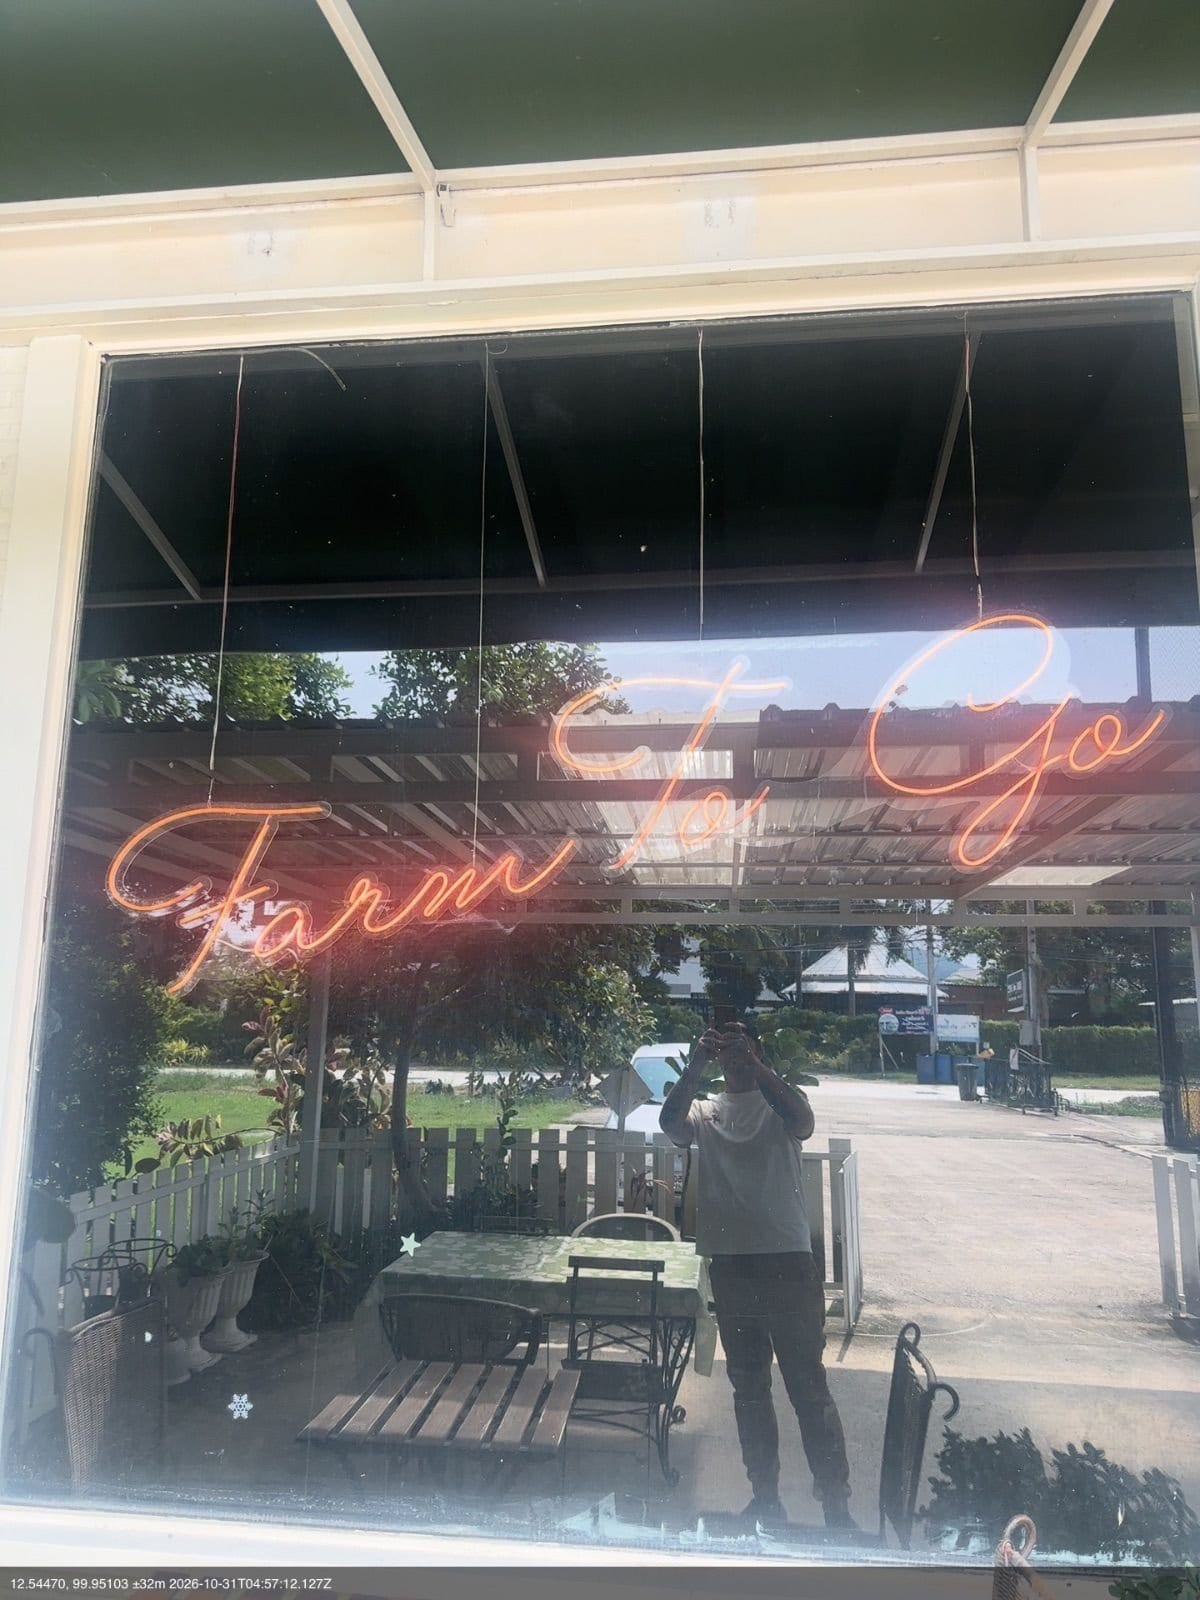
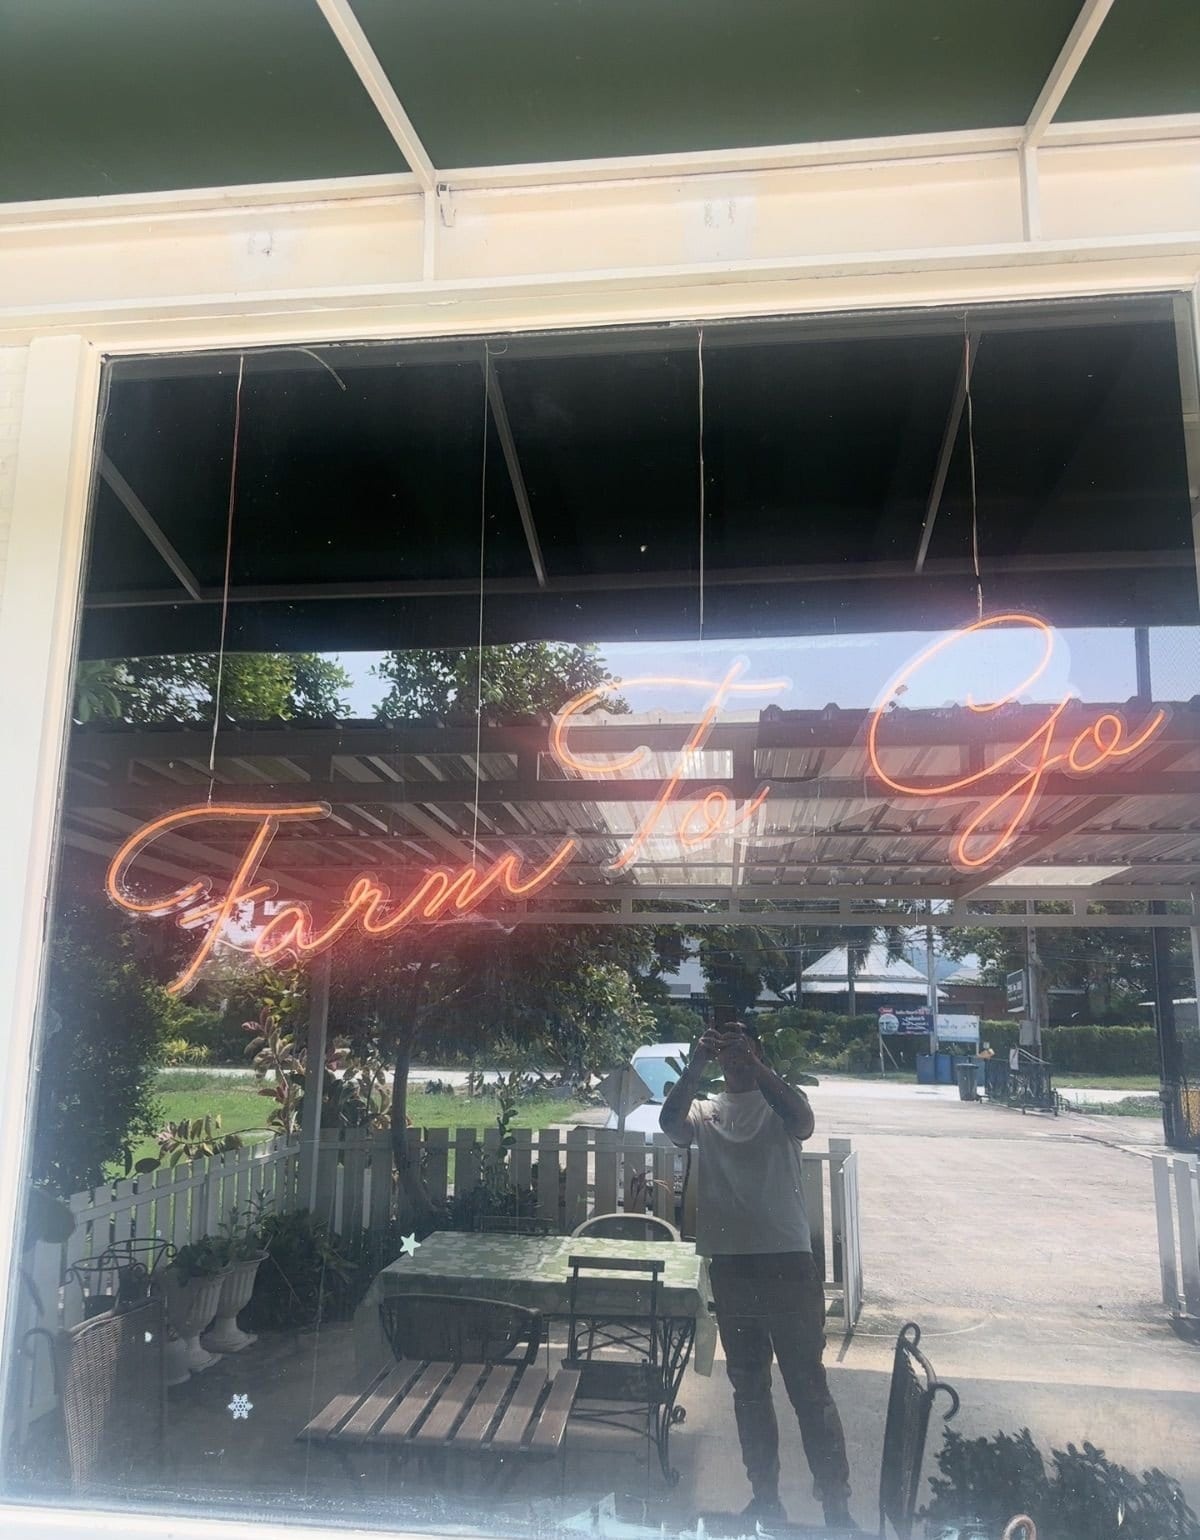
fix(judge): resolve the demo shop id and keep a blocked replace from failing
A judge save looks up the is_demo shop id, so the book link is the café slug. A replace the caller cannot make becomes an add, or a skip at 12 pages, and never removes a page they do not own. Café A starts from an empty Farm to Go book. Sample photos lose the burned-in stamp, and the no-camera upload sits below the sample pill.

diff --git a/app/api/book/pages/route.test.ts b/app/api/book/pages/route.test.ts
@@ -14,7 +14,8 @@ type Row = Record<string, unknown>;
 
 const { getUser, state, service } = vi.hoisted(() => {
   const state = {
-    shop: null as { id: string; category: string; name?: string; slug?: string; name_local?: string | null } | null,
+    shop: null as { id: string; category: string; name?: string; slug?: string; name_local?: string | null; is_demo?: boolean } | null,
+    demoAccount: false,
     book: null as Row | null,
     pages: [] as Row[],
     uploads: [] as { path: string; bytes: Buffer }[],
@@ -72,6 +73,9 @@ const { getUser, state, service } = vi.hoisted(() => {
     }
 
     finish() {
+      if (this.table === "demo_accounts") {
+        return { data: state.demoAccount ? [{ role: "explorer" }] : [], error: null };
+      }
       if (this.table === "shop_owners") {
         return {
           data: state.ownerIds.map((id) => ({ user_id: id, status: "verified" })),
@@ -296,6 +300,7 @@ describe("POST /api/book/pages", () => {
     state.rpcCalls = [];
     state.bookWrites = 0;
     state.ownerIds = [USER];
+    state.demoAccount = false;
     mode = "ok";
     vi.stubGlobal("fetch", installFetch());
   });
@@ -583,6 +588,47 @@ describe("POST /api/book/pages", () => {
     const addedBody = (await added.json()) as { summary?: string };
     expect(addedBody.summary).toContain("Added 1 menu item");
     expect(state.pages.filter((page) => page.kind === "menu" && page.status !== "removed").length).toBeGreaterThan(1);
+  });
+
+  it("a judge and a normal user add a page instead of replacing one they do not own", async () => {
+    const pageId = "dddddddd-dddd-4ddd-8ddd-dddddddddddd";
+    const liveBook = { status: "live", hours: {}, theme: {}, tagline: null, source_language: null, built_by_model: null };
+    state.shop = { id: SHOP, category: "street_food", slug: "mala-mafia", is_demo: true };
+    state.demoAccount = true;
+    state.ownerIds = ["99999999-9999-4999-8999-999999999999"];
+    state.pages = [{ id: pageId, kind: "storefront", status: "live", extracted: { section: "old" }, shop_id: SHOP }];
+    state.book = liveBook;
+    mode = "improve-replace";
+    const judge = await postSession([{ kind: "storefront" }], SHOP, "improve");
+    expect(judge.status).toBe(200);
+    expect(state.pages.find((page) => page.id === pageId)?.status).toBe("live");
+    expect(state.pages.filter((page) => page.kind === "storefront" && page.status !== "removed").length).toBeGreaterThan(1);
+
+    state.pages = [{ id: pageId, kind: "storefront", status: "live", extracted: { section: "old" }, shop_id: SHOP }];
+    state.book = liveBook;
+    state.shop = { id: SHOP, category: "street_food", is_demo: false };
+    state.demoAccount = false;
+    state.ownerIds = [];
+    state.uploads = [];
+    const joined = await postSession([{ kind: "storefront" }], SHOP, "improve");
+    expect(joined.status).toBe(200);
+    expect(state.pages.find((page) => page.id === pageId)?.status).toBe("live");
+
+    state.pages = [
+      { id: pageId, kind: "storefront", status: "live", extracted: { section: "old" }, shop_id: SHOP },
+      ...Array.from({ length: 11 }, (_, index) => ({
+        id: "eeeeeeee-eeee-4eee-8eee-" + String(index + 1).padStart(12, "0"),
+        kind: "menu",
+        status: "live",
+        extracted: { section: "old" },
+        shop_id: SHOP,
+      })),
+    ];
+    state.book = liveBook;
+    const full = await postSession([{ kind: "storefront" }], SHOP, "improve");
+    expect(full.status).toBe(200);
+    expect(state.pages.find((page) => page.id === pageId)?.status).toBe("live");
+    expect(state.pages.filter((page) => page.status !== "removed")).toHaveLength(12);
   });
 
   it("joining an existing shop with a live page succeeds", async () => {

diff --git a/components/camera/LiveCamera.tsx b/components/camera/LiveCamera.tsx
@@ -28,7 +28,7 @@ import { savedMaybe, waitForBook } from "@/lib/book/waitBook";
 import { SkeletonCards } from "@/components/ui/SkeletonCards";
 import { DEMO_ZONE_FALLBACK } from "@/lib/demo/zone";
 import { BuildProgress } from "@/components/book/BuildProgress";
-import { DEMO_CAFES, judgeSampleSave, readTour } from "@/lib/judge/script";
+import { DEMO_CAFES, demoShopTarget, judgeSampleSave, readTour } from "@/lib/judge/script";
 import { stageSnapFile } from "@/lib/snap/handoff";
 import { listenNavShutter, navShutterAction } from "@/lib/snap/navShutter";
 import {
@@ -129,6 +129,7 @@ export function LiveCamera({
   const langRef = useRef<Lang>("en");
   const boot = useRef(false);
   const samplesOnce = useRef(false);
+  const sampleNoteShown = useRef(false);
   const loadSamplesRef = useRef<() => Promise<boolean>>(async () => false);
   const facedSeed = useRef(false);
   const [facing, setFacing] = useState<Facing>(facingForSession());
@@ -456,9 +457,13 @@ export function LiveCamera({
   async function loadSamples(): Promise<boolean> {
     const fix = (await placeForShot()) ?? fixRef.current;
     if (!fix) {
-      setNote("Turn on location to use sample photos");
+      if (!sampleNoteShown.current) {
+        sampleNoteShown.current = true;
+        setNote("Turn on location to use sample photos");
+      }
       return false;
     }
+    sampleNoteShown.current = false;
     const tour = readTour();
     const cafe = DEMO_CAFES[tour?.cafe ?? "a"];
     const files: File[] = [];
@@ -584,8 +589,21 @@ export function LiveCamera({
       const tour = readTour();
       const judged = force ? null : judgeSampleSave(tour);
       if (!target && judged && tour) {
-        const cafe = DEMO_CAFES[tour.cafe];
-        target = { id: judged.shop, slug: cafe.slug, name: cafe.name };
+        const supabase = createClient();
+        const found = await supabase
+          .from("shops")
+          .select("id, slug, name")
+          .eq("slug", judged.shop)
+          .eq("is_demo", true)
+          .maybeSingle();
+        const resolved = demoShopTarget(judged.shop, found.data);
+        if (!resolved) {
+          setNote("The book did not save.");
+          setPhase("seed");
+          return;
+        }
+        target = resolved;
+        setPicked(resolved);
       } else if (!target) {
         const name = PLACEHOLDER_SHOP_NAME;
         const place = fixRef.current ?? shotsRef.current[0]?.fix;
@@ -838,7 +856,7 @@ export function LiveCamera({
         <div
           className={
             cameraClosed
-              ? "absolute inset-x-4 top-24 z-20 flex justify-center"
+              ? "absolute inset-x-4 top-[11.5rem] z-20 flex justify-center"
               : "absolute bottom-8 left-1/2 z-20 flex -translate-x-1/2 items-center gap-3"
           }
         >

diff --git a/lib/judge/script.test.ts b/lib/judge/script.test.ts
@@ -1,7 +1,8 @@
 import { existsSync, readFileSync } from "node:fs";
 import { resolve } from "node:path";
 import { describe, expect, it } from "vitest";
-import { advanceStep, BOOK_PROGRESS, DEMO_CAFES, EXPLAINERS, judgeSampleSave, pathStep, rememberSeen, showExplainer, swapTour } from "./script";
+import { seedBookPath } from "../book/seedName";
+import { advanceStep, BOOK_PROGRESS, DEMO_CAFES, demoShopTarget, EXPLAINERS, judgeSampleSave, pathStep, rememberSeen, showExplainer, swapTour } from "./script";
 
 describe("judge script", () => {
   it("has eight steps and a card for each named beat", () => {
@@ -40,6 +41,16 @@ describe("judge script", () => {
     expect(save.indexOf("judgeSampleSave")).toBeGreaterThan(-1);
     expect(save.indexOf("judgeSampleSave")).toBeLessThan(save.indexOf('fetch("/api/shops"'));
     expect(save).toContain('createdHere ? undefined : "improve"');
+    expect(save).toContain("demoShopTarget");
+    expect(save).toContain('.eq("is_demo", true)');
+    expect(save).not.toContain("id: judged.shop");
+    const shopId = "11111111-1111-4111-8111-111111111101";
+    const target = demoShopTarget("mala-mafia", { id: shopId, slug: "mala-mafia", name: "Farm to Go (demo)" });
+    expect(target?.id).toBe(shopId);
+    expect(seedBookPath(target?.id ?? "", target?.slug, "mala-mafia")).toBe("/book/mala-mafia");
+    expect(seedBookPath("mala-mafia", "mala-mafia", "mala-mafia")).toBeNull();
+    expect(demoShopTarget("coconut-shake-stand", { id: shopId, slug: "coconut-shake-stand", name: "Coconut shake stand" })?.id).toBe(shopId);
+    expect(demoShopTarget("mala-mafia", { id: "mala-mafia", slug: "mala-mafia" })).toBeNull();
     expect(camera).toContain("Turn on location to use sample photos");
     expect(camera).toContain("top-[7.5rem] inset-x-0 z-20 mx-auto");
   });

diff --git a/lib/demo/street.test.ts b/lib/demo/street.test.ts
@@ -1,4 +1,4 @@
-import { existsSync, readFileSync } from "node:fs";
+import { readFileSync } from "node:fs";
 import { dirname, resolve } from "node:path";
 import { fileURLToPath } from "node:url";
 import { describe, expect, it } from "vitest";
@@ -18,19 +18,17 @@ describe("Soi 102 demo street seed", () => {
     expect(sql).not.toMatch(/\bupdate\s+public\.shops\b/i);
   });
 
-  it("plants live deals, coupons, and a Mala Mafia book", () => {
+  it("plants live deals, coupons, and an empty Farm to Go book", () => {
     expect(check.postCount).toBeGreaterThanOrEqual(4);
     expect(check.postCount).toBeLessThanOrEqual(6);
     expect(check.couponCount).toBeGreaterThanOrEqual(2);
     expect(check.couponCount).toBeLessThanOrEqual(3);
     expect(sql).toContain("interval '2 hours'");
-    expect(check.bookKinds.filter((kind) => kind === "menu")).toHaveLength(3);
-    expect(check.bookKinds).toContain("logo");
-    expect(check.bookKinds).toContain("hours");
+    expect(sql).toContain("Smoothies, coffee, and brunch");
+    expect(sql).not.toContain("Mala skewers");
+    expect(sql).not.toContain("mala-mafia-menu");
+    expect(sql).not.toContain(".svg");
+    expect(check.bookKinds).toEqual([]);
     expect(sql).toContain("theme");
-    expect(check.imagePaths.length).toBe(check.bookKinds.length);
-    for (const imagePath of check.imagePaths) {
-      expect(existsSync(resolve(root, "public", imagePath))).toBe(true);
-    }
   });
 });

diff --git a/lib/book/present.test.ts b/lib/book/present.test.ts
@@ -33,10 +33,8 @@ describe("book view", () => {
   });
 
   it("serves /demo/ pages from public and leaves other paths on storage", () => {
-    expect(bookImageUrl("https://example.supabase.co", "/demo/mala-mafia-logo.svg")).toBe(
-      "/demo/mala-mafia-logo.svg",
-    );
-    expect(bookImageUrl("", "/demo/mala-mafia-hours.svg")).toBe("/demo/mala-mafia-hours.svg");
+    expect(bookImageUrl("https://example.supabase.co", "/demo/shop-logo.svg")).toBe("/demo/shop-logo.svg");
+    expect(bookImageUrl("", "/demo/shop-hours.svg")).toBe("/demo/shop-hours.svg");
     const stored = bookImageUrl("https://example.supabase.co", "shop-1/menu.jpg");
     expect(stored).toBe("/api/media/shop-book/shop-1/menu.jpg");
     expect(stored).not.toContain("/object/public/");
@@ -45,13 +43,13 @@ describe("book view", () => {
         shop: { id: "shop-1", slug: "mala-mafia", name: "Mala Mafia" },
         book: {},
         pages: [
-          { id: "logo", kind: "logo", position: 0, image_path: "/demo/mala-mafia-logo.svg" },
+          { id: "logo", kind: "logo", position: 0, image_path: "/demo/shop-logo.svg" },
           { id: "menu", kind: "menu", position: 0, image_path: "shop-1/menu.jpg" },
         ],
       },
       "https://example.supabase.co",
     );
-    expect(view?.logoUrl).toBe("/demo/mala-mafia-logo.svg");
+    expect(view?.logoUrl).toBe("/demo/shop-logo.svg");
     expect(view?.pages[1]?.imageUrl).toBe(stored);
   });
 

diff --git a/app/api/book/pages/route.ts b/app/api/book/pages/route.ts
@@ -433,11 +433,27 @@ async function commitBook(input: {
   const demoShop = (shopDemoResult.data as { is_demo?: boolean } | null)?.is_demo === true;
   const demoResult = await service.from("demo_accounts").select("role").eq("user_id", userId);
   const demoAccount = Array.isArray(demoResult.data) && demoResult.data.length > 0;
+  const gate = { claimed, verifiedOwner, serverReset: false, demoShop, demoAccount };
+  if (!bookWriteAllowed({ ...gate, action: "replace" })) {
+    let room = MAX_MENU_PAGES - livePages.filter((page) => page.status === "live").length;
+    for (const group of groups) {
+      for (const plan of group.plans) {
+        if (plan.action !== "replace") continue;
+        if (room <= 0) {
+          plan.action = "skip";
+          plan.pageId = null;
+          continue;
+        }
+        room -= 1;
+        plan.action = "add";
+        plan.pageId = null;
+      }
+    }
+  }
   const replacing = groups.some((group) => group.plans.some((plan) => plan.action === "replace"));
   const adding = groups.some((group) =>
     group.stored.some((page) => !group.plans.some((plan) => plan.index === page.index && plan.action === "skip")),
   );
-  const gate = { claimed, verifiedOwner, serverReset: false, demoShop, demoAccount };
   if (
     (replacing && !bookWriteAllowed({ ...gate, action: "replace" })) ||
     (adding && !bookWriteAllowed({ ...gate, action: "add" }))

diff --git a/lib/judge/script.ts b/lib/judge/script.ts
@@ -37,10 +37,23 @@ export const EXPLAINERS: readonly Explainer[] = [
 
 const STEP_IDS = new Set<string>(EXPLAINERS.map((step) => step.id));
 
+const DEMO_SHOP_ID = /^[0-9a-f]{8}-[0-9a-f]{4}-[1-8][0-9a-f]{3}-[89ab][0-9a-f]{3}-[0-9a-f]{12}$/i;
+
 /** Judge tour writes the existing demo café in improve mode. No shop match. */
 export function judgeSampleSave(tour: Tour | null): { shop: string; mode: "improve" } | null {
   if (!tour) return null;
   return { shop: DEMO_CAFES[tour.cafe].slug, mode: "improve" };
+}
+
+/** Real id for an is_demo shop. A slug is not an id, so the book link can be built. */
+export function demoShopTarget(
+  slug: string,
+  row: { id?: unknown; slug?: unknown; name?: unknown } | null,
+): { id: string; slug: string; name: string } | null {
+  if (!row || typeof row.id !== "string" || !DEMO_SHOP_ID.test(row.id) || row.slug !== slug) return null;
+  const cafe = Object.values(DEMO_CAFES).find((item) => item.slug === slug);
+  const name = typeof row.name === "string" && row.name.trim() ? row.name : (cafe?.name ?? slug);
+  return { id: row.id, slug, name };
 }
 
 export function explainer(id: StepId): Explainer {

diff --git a/lib/db/migration.test.ts b/lib/db/migration.test.ts
@@ -586,6 +586,12 @@ describe("security migrations 0018 through 0021", () => {
     expect(sql).not.toContain("'mala-mafia', 'Mala Mafia'");
     expect(sql).not.toContain("set slug");
     expect(sql).toContain("where shops.slug = seed.slug");
+    expect(sql).toContain("delete from public.shop_book_pages");
+    expect(sql).toContain("shops.slug = 'mala-mafia'");
+    expect(sql).toContain("pages.image_path like '/demo/mala-mafia-%'");
+    expect(sql).toContain("Smoothies, coffee, and brunch");
+    expect(sql).not.toContain("delete from public.shops");
+    expect(sql).not.toContain("auth.users");
     expect(sql).toContain("revoke all on function public.reset_demo() from public, anon");
     expect(sql).toContain("grant execute on function public.reset_demo() to authenticated");
     expect(sql).not.toContain("grant execute on function public.reset_demo() to anon");

diff --git a/lib/photos/sign.test.ts b/lib/photos/sign.test.ts
@@ -4,7 +4,7 @@ import { cachedSignedUrl, clearSignedUrlCache, SIGNED_URL_REUSE_MS, SIGNED_URL_T
 describe("signed photo urls", () => {
   it("points storage paths at the signing route and never at a public object", () => {
     expect(signedPhotoUrl("user/post-1.jpg", "post-photos")).toBe("/api/media/post-photos/user/post-1.jpg");
-    expect(signedPhotoUrl("/demo/mala-mafia-logo.svg", "shop-book")).toBe("/demo/mala-mafia-logo.svg");
+    expect(signedPhotoUrl("/demo/shop-logo.svg", "shop-book")).toBe("/demo/shop-logo.svg");
     expect(
       signedPhotoUrl("https://example.supabase.co/storage/v1/object/public/shop-book/shop-1/menu.jpg", "shop-book"),
     ).toBe("/api/media/shop-book/shop-1/menu.jpg");

diff --git a/lib/order/ui.test.ts b/lib/order/ui.test.ts
@@ -18,7 +18,7 @@ describe("order page", () => {
     const html = renderToStaticMarkup(
       createElement(OrderSheet, {
         shopName: "Mala Mafia",
-        logoUrl: "/demo/mala-mafia-logo.svg",
+        logoUrl: "/demo/shop-logo.svg",
         place: "Soi 102",
         lines: [line],
         note: "no tomatoes",

diff --git a/public/ASSETS.md b/public/ASSETS.md
@@ -3,11 +3,6 @@
 Every file under `public/` is listed here. `scripts/audit-fresh.mjs` fails when a file is missing from this list.
 
 - ASSETS.md
-- demo/mala-mafia-hours.svg
-- demo/mala-mafia-logo.svg
-- demo/mala-mafia-menu-1.svg
-- demo/mala-mafia-menu-2.svg
-- demo/mala-mafia-menu-3.svg
 - file.svg
 - globe.svg
 - icon.svg
